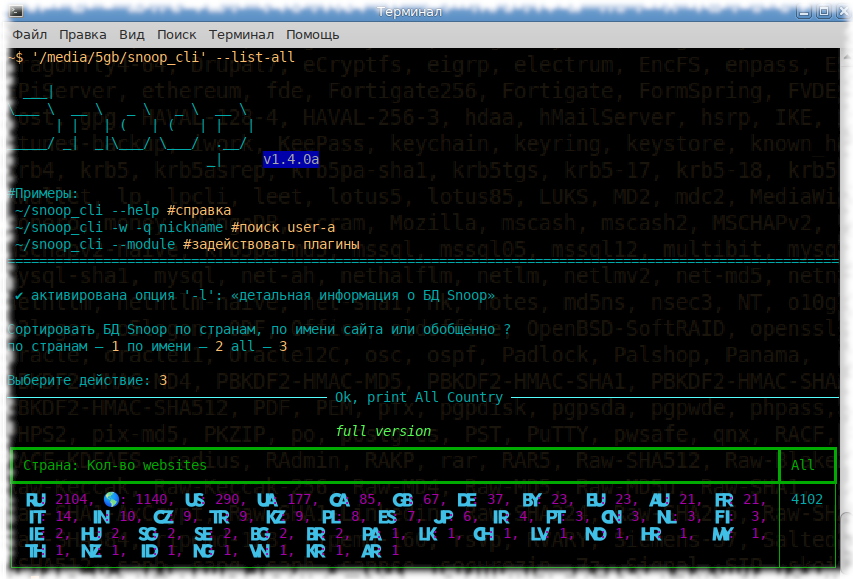
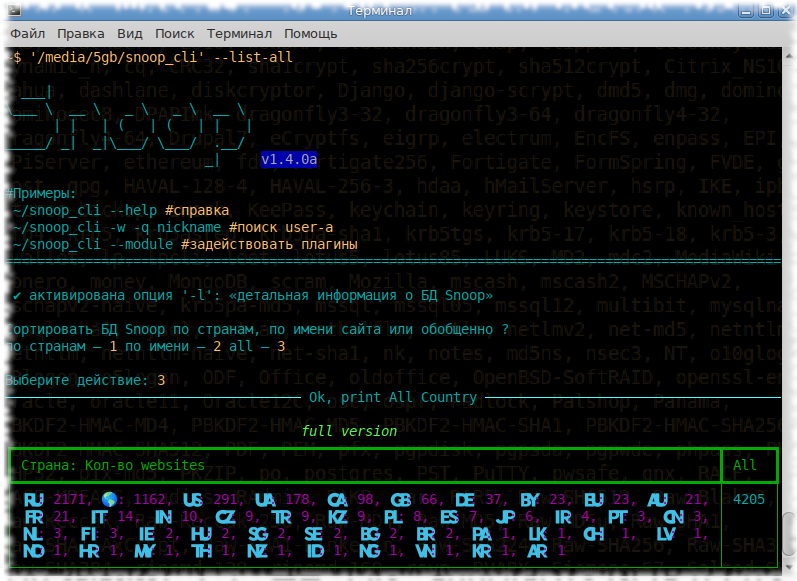
readme

diff --git a/README.md b/README.md
@@ -22,7 +22,7 @@ that is, it is available to the average user *(project creation date: February 1
 > <sub>*Snoop — это исследовательская работа (собственная база данных/закрытые багбаунти) в области поиска и обработки публичных данных в сети интернет. По части специализированного поиска Snoop способен конкурировать с традиционными поисковыми системами.*</sub>  
 
 Сравнение индексаций БД-никнеймов подобных инструментов:  
-<img src="https://img.shields.io/badge/Snoop-~4000+%20websites-success" width="50%" />  
+<img src="https://img.shields.io/badge/Snoop-~4200+%20websites-success" width="50%" />  
 <img src="https://img.shields.io/badge/Sherlock-~400 websites-yellowgreen" width="20%" />  
 <img src="https://img.shields.io/badge/Spiderfoot-~350 websites-yellowgreen" width="20%" />  
 <img src="https://img.shields.io/badge/Whatsmyname-~300 websites-yellowgreen" width="20%" />  
@@ -44,7 +44,7 @@ Snoop for OS Windows and GNU/Linux
 
 **Snoop Local database**  
 <img src="https://raw.githubusercontent.com/snooppr/snoop/master/images/snoop_run.png" />  
-[Snoop full version database 4000+ websites ⚡⚡⚡](https://raw.githubusercontent.com/snooppr/snoop/master/websites.md "Database Snoop")  
+[Snoop full version database 4200+ websites ⚡⚡⚡](https://raw.githubusercontent.com/snooppr/snoop/master/websites.md "Database Snoop")  
 
 ## Релиз/Release
 <img src="https://raw.githubusercontent.com/snooppr/snoop/master/images/snoop box.png" width="35%" />  
@@ -158,7 +158,7 @@ search arguments:
   --verbose, -v         Во время поиска 'nickname' выводить на печать
                         подробную вербализацию
   --web-base, -w        Подключиться для поиска 'nickname' к
-                        динамично-обновляемой web_БД (4000+ сайтов). В demo
+                        динамично-обновляемой web_БД (4200+ сайтов). В demo
                         version функция отключена
   --site , -s <site_name> 
                         Указать имя сайта из БД '--list-all'. Поиск

diff --git a/README.es.md b/README.es.md
@@ -14,7 +14,7 @@ es decir, está al alcance del usuario medio *(14 de febrero de 2020)*.
 > <sub>*Snoop es un trabajo de desarrollo de investigación (base de datos propia/bugbounty cerrado) en la búsqueda y procesamiento de datos públicos en Internet. Según la búsqueda especializada de Snoop, es capaz de competir con los motores de búsqueda tradicionales.*</sub>  
 
 Comparación de indexaciones de bases de datos tales herramientas:  
-<img src="https://img.shields.io/badge/Snoop-~4000+%20sitios web-success" width="50%" />  
+<img src="https://img.shields.io/badge/Snoop-~4200+%20sitios web-success" width="50%" />  
 <img src="https://img.shields.io/badge/Sherlock-~400 sitios web-yellowgreen" width="20%" />  
 <img src="https://img.shields.io/badge/Spiderfoot-~350 sitios web-yellowgreen" width="20%" />  
 <img src="https://img.shields.io/badge/Whatsmyname-~300 sitios web-yellowgreen" width="20%" />  
@@ -36,7 +36,7 @@ Snoop para SO Windows y GNU/Linux
 
 **Snoop Local database**  
 <img src="https://raw.githubusercontent.com/snooppr/snoop/master/images/EN_DB.png" />  
-[Base de datos de la versión completa de Snoop Más de 4000+ sitios web ⚡⚡⚡](https://raw.githubusercontent.com/snooppr/snoop/master/websites.md "Database Snoop")  
+[Base de datos de la versión completa de Snoop Más de 4200+ sitios web ⚡⚡⚡](https://raw.githubusercontent.com/snooppr/snoop/master/websites.md "Database Snoop")  
 
 ## Liberar
 <img src="https://raw.githubusercontent.com/snooppr/snoop/master/images/snoop box.png" width="35%" />  
@@ -146,7 +146,7 @@ argumentos de búsqueda:
                         un espacio en su nombre se escribe entre comillas
   --verbose, -v         Cuando busque 'apodo', imprima verbalización detallada
   --web-base, -w        Conéctese a una web_DB dinámicamente actualizada
-                        (más de 4000+ sitios) para buscar 'apodo'.
+                        (más de 4200+ sitios) para buscar 'apodo'.
                         En la versión de demostración, la función está deshabilitada
   --site , -s <site_name> 
                         Especifique el nombre del sitio de la base de datos '--list-all'.

diff --git a/README.de.md b/README.de.md
@@ -14,7 +14,7 @@ das heißt, es steht dem durchschnittlichen Benutzer zur Verfügung *(14. Februa
 > <sub>*Snoop ist ein Forschungswerk (eigene Datenbank/geschlossenes Bugbounty) im Bereich der Suche und Verarbeitung öffentlicher Daten im Internet. In Bezug auf die spezialisierte Suche kann Snoop mit traditionellen Suchmaschinen konkurrieren.*</sub>  
 
 Vergleich der Indizierung von Datenbank-Nicknames ähnlicher Tools:  
-<img src="https://img.shields.io/badge/Snoop-~4000+%20websites-success" width="50%" />  
+<img src="https://img.shields.io/badge/Snoop-~4200+%20websites-success" width="50%" />  
 <img src="https://img.shields.io/badge/Sherlock-~400 websites-yellowgreen" width="20%" />  
 <img src="https://img.shields.io/badge/Spiderfoot-~350 websites-yellowgreen" width="20%" />  
 <img src="https://img.shields.io/badge/Whatsmyname-~300 websites-yellowgreen" width="20%" />  
@@ -36,7 +36,7 @@ Snoop für Betriebssysteme Windows und GNU/Linux
 
 **Snoop lokale Datenbank**  
 <img src="https://raw.githubusercontent.com/snooppr/snoop/master/images/EN_DB.png" />  
-[Snoop-Vollversionsdatenbank mit über 4000+ Websites ⚡⚡⚡](https://raw.githubusercontent.com/snooppr/snoop/master/websites.md "Datenbank-Snoop")  
+[Snoop-Vollversionsdatenbank mit über 4200+ Websites ⚡⚡⚡](https://raw.githubusercontent.com/snooppr/snoop/master/websites.md "Datenbank-Snoop")  
 
 ## Freigeben
 <img src="https://raw.githubusercontent.com/snooppr/snoop/master/images/snoop box.png" width="35%" />  
@@ -149,7 +149,7 @@ search arguments:
   --verbose, -v         Geben Sie bei der Suche nach 'Spitzname' eine detaillierte
                         Verbalisierung aus
   --web-base, -w        Stellen Sie eine Verbindung zu einer dynamisch aktualisierten
-                        web_DB (über 4000+ Websites) her, um nach 'Spitzname'
+                        web_DB (über 4200+ Websites) her, um nach 'Spitzname'
                         zu suchen. In der Demoversion ist die Funktion deaktiviert
   --site , -s <site_name> 
                         Geben Sie den Site-Namen aus der Datenbank '--list-all' an.

diff --git a/README.fr.md b/README.fr.md
@@ -15,7 +15,7 @@ c'est-à-dire qu'il est disponible pour l'utilisateur moyen *(date de création 
 Selon la recherche spécialisée de Snoop, il est capable de concurrencer les moteurs de recherche traditionnels.*</sub>  
 
 Comparaison des indexations de bases de données tels outils:  
-<img src="https://img.shields.io/badge/Snoop-~4000+%20sites Internet-success" width="50%" />  
+<img src="https://img.shields.io/badge/Snoop-~4200+%20sites Internet-success" width="50%" />  
 <img src="https://img.shields.io/badge/Sherlock-~400 sites Internet-yellowgreen" width="20%" />  
 <img src="https://img.shields.io/badge/Spiderfoot-~350 sites Internet-yellowgreen" width="20%" />  
 <img src="https://img.shields.io/badge/Whatsmyname-~300 sites Internet-yellowgreen" width="20%" />  
@@ -37,7 +37,7 @@ Snoop pour OS Windows et GNU/Linux
 
 **Base de données locale Snoop**  
 <img src="https://raw.githubusercontent.com/snooppr/snoop/master/images/EN_DB.png" />  
-[Base de données de la version complète de Snoop 4000+ sites Web ⚡⚡⚡](https://raw.githubusercontent.com/snooppr/snoop/master/websites.md "Database Snoop")  
+[Base de données de la version complète de Snoop 4200+ sites Web ⚡⚡⚡](https://raw.githubusercontent.com/snooppr/snoop/master/websites.md "Database Snoop")  
 
 ## Libérer
 <img src="https://raw.githubusercontent.com/snooppr/snoop/master/images/snoop box.png" width="35%" />  
@@ -150,7 +150,7 @@ search arguments:
   --verbose, -v         Lors de la recherche de "surnom", imprimez la verbalisation
                         détaillée
   --web-base, -w        Connectez-vous pour rechercher 'surnom' dans la base de
-                        données web mise à jour (plus de 4000+ sites Web). 
+                        données web mise à jour (plus de 4200+ sites Web). 
                         Dans la version de démonstration, la fonction est désactivée
   --site , -s <site_name> 
                         Spécifiez le nom du site à partir de la base de données

diff --git a/README.cn.md b/README.cn.md
@@ -15,7 +15,7 @@ Snoop 项目是在没有考虑 NSA 和他们的朋友的意见的情况下开发
 根据 Snoop 的专业搜索，它有能力与传统搜索引擎竞争。</sub>  
 
 数据库索引等工具的比较：  
-<img src="https://img.shields.io/badge/Snoop-~4000+%20网站-success" width="50%" />  
+<img src="https://img.shields.io/badge/Snoop-~4200+%20网站-success" width="50%" />  
 <img src="https://img.shields.io/badge/Sherlock-~400 网站-yellowgreen" width="20%" />  
 <img src="https://img.shields.io/badge/Spiderfoot-~350 网站-yellowgreen" width="20%" />  
 <img src="https://img.shields.io/badge/Whatsmyname-~300 网站-yellowgreen" width="20%" />  
@@ -37,7 +37,7 @@ Snoop 项目是在没有考虑 NSA 和他们的朋友的意见的情况下开发
 
 **探听本地数据库**  
 <img src="https://raw.githubusercontent.com/snooppr/snoop/master/images/EN_DB.png" />  
-[Snoop 完整版数据库 4000+ 个网站 ⚡⚡⚡](https://raw.githubusercontent.com/snooppr/snoop/master/websites.md "数据库探听")  
+[Snoop 完整版数据库 4200+ 个网站 ⚡⚡⚡](https://raw.githubusercontent.com/snooppr/snoop/master/websites.md "数据库探听")  
 
 ## 发布
 <img src="https://raw.githubusercontent.com/snooppr/snoop/master/images/snoop box.png" width="35%" />  
@@ -141,7 +141,7 @@ plugins arguments:
 search arguments:
   nickname              被通缉用户的昵称。 支持同时搜索多个名称。 名称中包含空格的昵称用引号引起来
   --verbose, -v         搜索'昵称'时，打印详细的语言描述
-  --web-base, -w        连接以在更新的 web_DB（4000+ 多个网站）中搜索'昵称'。 在演示版本中，
+  --web-base, -w        连接以在更新的 web_DB（4200+ 多个网站）中搜索'昵称'。 在演示版本中，
                         该功能被禁用
   --site , -s <site_name> 
                         从数据库'--list-all'中指定站点名称。 在一个指定的资源上搜索'昵称'，

diff --git a/README.en.md b/README.en.md
@@ -15,7 +15,7 @@ that is, it is available to the average user *(project creation date: February 1
 According to Snoop's specialized search, it is capable of competing with traditional search engines.*</sub>  
 
 Comparison of indexations of databases such tools:  
-<img src="https://img.shields.io/badge/Snoop-~4000+%20websites-success" width="50%" />  
+<img src="https://img.shields.io/badge/Snoop-~4200+%20websites-success" width="50%" />  
 <img src="https://img.shields.io/badge/Sherlock-~400 websites-yellowgreen" width="20%" />  
 <img src="https://img.shields.io/badge/Spiderfoot-~350 websites-yellowgreen" width="20%" />  
 <img src="https://img.shields.io/badge/Whatsmyname-~300 websites-yellowgreen" width="20%" />  
@@ -37,7 +37,7 @@ Snoop for OS Windows and GNU/Linux
 
 **Snoop Local database**  
 <img src="https://raw.githubusercontent.com/snooppr/snoop/master/images/EN_DB.png" />  
-[Snoop Full version database 4000+ websites ⚡⚡⚡](https://raw.githubusercontent.com/snooppr/snoop/master/websites.md "Database Snoop")  
+[Snoop Full version database 4200+ websites ⚡⚡⚡](https://raw.githubusercontent.com/snooppr/snoop/master/websites.md "Database Snoop")  
 
 ## Release
 <img src="https://raw.githubusercontent.com/snooppr/snoop/master/images/snoop box.png" width="35%" />  
@@ -150,7 +150,7 @@ search arguments:
   --verbose, -v         When searching for 'nickname', print detailed
                         verbalization
   --web-base, -w        Connect to search for 'nickname' to the updated web_DB
-                        (4000+ websites). In demo version the function is disabled
+                        (4200+ websites). In demo version the function is disabled
   --site , -s <site_name> 
                         Specify the name of the site from the database 
                         '--list-all'. Search for 'nickname' on one specified
